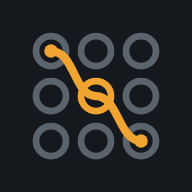
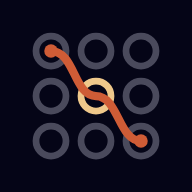
Thème aux couleurs de la palette d'Eddy (ink black, paprika, apricot, vanilla, alabaster), clair et sombre, icône assortie
Claude-Session: https://claude.ai/code/session_01PqsB6tubNNyDzqUiKZuta6

Changed region(s): [[0.1562, 0.1562, 0.8438, 0.8438], [0.625, 0.1562, 0.8438, 0.375], [0.1562, 0.625, 0.375, 0.8438]]

diff --git a/index.html b/index.html
@@ -4,7 +4,7 @@
 <meta charset="utf-8">
 <meta name="viewport" content="width=device-width,initial-scale=1,viewport-fit=cover">
 <link rel="manifest" href="manifest.webmanifest">
-<meta name="theme-color" content="#a85d00">
+<meta name="theme-color" content="#050517">
 <link rel="icon" href="icon-192.png">
 <link rel="apple-touch-icon" href="icon-192.png">
 <meta name="apple-mobile-web-app-capable" content="yes">
@@ -19,34 +19,37 @@
 <style>
 /* Layout : barre de dossier en haut, onglets, puis une vue de travail pleine largeur (tableau dense, grilles de boîtiers) */
 :root {
-  --bg: #eceef1;
+  /* Palette : ink black #050517, spicy paprika #cf5c36, apricot cream #efc88b, vanilla custard #f4e3b2, alabaster grey #d3d5d7 */
+  --bg: #e9eaeb;
   --surface: #ffffff;
-  --surface-2: #f5f6f8;
-  --ink: #15181c;
-  --muted: #5b636d;
-  --line: #d3d8de;
-  --accent: #a85d00;
-  --accent-ink: #ffffff;
-  --accent-soft: #fbe9cf;
-  --danger: #b42318;
-  --danger-soft: #fde8e6;
+  --surface-2: #faf5e8;
+  --ink: #050517;
+  --muted: #4a4a5c;
+  --line: #d3d5d7;
+  --accent: #cf5c36;
+  --accent-ink: #050517;
+  --accent-soft: #f4e3b2;
+  --apricot: #efc88b;
+  --danger: #a3201a;
+  --danger-soft: #fbe2df;
   --ok: #1f7a4a;
   --font-ui: "IBM Plex Sans Condensed", "Arial Narrow", "Helvetica Neue", Arial, sans-serif;
   --font-mono: "IBM Plex Mono", ui-monospace, "SF Mono", Menlo, Consolas, monospace;
 }
 @media (prefers-color-scheme: dark) {
   :root:not([data-theme="light"]) {
-    --bg: #111316; --surface: #1a1d22; --surface-2: #22262c; --ink: #e8eaed; --muted: #9aa3ad;
-    --line: #333941; --accent: #f0a432; --accent-ink: #1a1206; --accent-soft: #3a2a12;
+    --bg: #050517; --surface: #0e0e24; --surface-2: #16162f; --ink: #f1ede2; --muted: #a3a3b5;
+    --line: #2a2a45; --accent: #e3764f; --accent-ink: #050517; --accent-soft: #3a1d14; --apricot: #efc88b;
     --danger: #ff8a80; --danger-soft: #3b1d1b; --ok: #6fd39b; color-scheme: dark;
   }
 }
 :root[data-theme="dark"] {
-  --bg: #111316; --surface: #1a1d22; --surface-2: #22262c; --ink: #e8eaed; --muted: #9aa3ad;
-  --line: #333941; --accent: #f0a432; --accent-ink: #1a1206; --accent-soft: #3a2a12;
+  --bg: #050517; --surface: #0e0e24; --surface-2: #16162f; --ink: #f1ede2; --muted: #a3a3b5;
+  --line: #2a2a45; --accent: #e3764f; --accent-ink: #050517; --accent-soft: #3a1d14; --apricot: #efc88b;
   --danger: #ff8a80; --danger-soft: #3b1d1b; --ok: #6fd39b; color-scheme: dark;
 }
 * { box-sizing: border-box; }
+input[type="checkbox"], input[type="radio"], input[type="range"], progress { accent-color: var(--accent); }
 [hidden] { display: none !important; }
 body {
   background: var(--bg); color: var(--ink); font-family: var(--font-ui); font-size: 15px; line-height: 1.4;
@@ -271,7 +274,7 @@ table.rack tr.hit td { background: var(--accent-soft); }
 .zoom { display: inline-flex; align-items: center; gap: 4px; }
 .zoom .mono { font-size: 13px; min-width: 46px; text-align: center; }
 #planSvg .it { cursor: grab; }
-#planSvg .it.on > .shape { stroke: #b45309; stroke-width: 0.06; }
+#planSvg .it.on > .shape { stroke: #cf5c36; stroke-width: 0.06; }
 .plan-side h3 { margin: 0 0 8px; font-size: 16px; }
 .plan-side label { display: flex; flex-direction: column; gap: 2px; font-size: 12px; color: var(--muted); margin-bottom: 8px; }
 .plan-side input, .plan-side select { width: 100%; }
@@ -345,7 +348,7 @@ nav.tabs.nomaster button[data-v="racks"] { order: -1; }
 .spxrf .det { color: var(--muted); }
 .gauge { display: block; height: 10px; border-radius: 5px; background: var(--surface-2); border: 1px solid var(--line); overflow: hidden; }
 .gauge span { display: block; height: 100%; background: var(--accent); }
-.gauge.warn span { background: #c98a00; }
+.gauge.warn span { background: #d9a248; }
 .gauge.over span { background: var(--danger, #b3261e); }
 @media (max-width: 760px) { .spxrf { grid-template-columns: 40px 1fr 64px; } .spxrf .det { grid-column: 2 / -1; } }
 .spxmode { display: flex; gap: 8px; align-items: center; flex-wrap: wrap; }
@@ -2601,7 +2604,7 @@ footer.foot { margin-top: 28px; color: var(--muted); font-size: 13px; max-width:
     const K = PLAN_KINDS[it.kind], w = it.w, h = it.h;
     if (K.round) return `<ellipse class="shape" cx="${w / 2}" cy="${h / 2}" rx="${w / 2}" ry="${h / 2}" fill="${K.fill}" stroke="${K.stroke}" stroke-width="0.03"/>`;
     if (K.wedge) return `<polygon class="shape" points="0,${h} ${w},${h} ${w * 0.85},0 ${w * 0.15},0" fill="${K.fill}" stroke="${K.stroke}" stroke-width="0.03"/>`;
-    if (it.kind === "texte") return `<rect class="shape" width="${w}" height="${h}" fill="transparent" stroke="${planSel === it.id ? "#b45309" : "none"}" stroke-width="0.03" stroke-dasharray="0.08"/>`;
+    if (it.kind === "texte") return `<rect class="shape" width="${w}" height="${h}" fill="transparent" stroke="${planSel === it.id ? "#cf5c36" : "none"}" stroke-width="0.03" stroke-dasharray="0.08"/>`;
     return `<rect class="shape" width="${w}" height="${h}" rx="0.04" fill="${K.fill}" stroke="${K.stroke}" stroke-width="0.03"/>`;
   }
   function planSvgMarkup(forExport, pxW) {

diff --git a/src/patch-live.html b/src/patch-live.html
@@ -6,34 +6,37 @@
 <style>
 /* Layout : barre de dossier en haut, onglets, puis une vue de travail pleine largeur (tableau dense, grilles de boîtiers) */
 :root {
-  --bg: #eceef1;
+  /* Palette : ink black #050517, spicy paprika #cf5c36, apricot cream #efc88b, vanilla custard #f4e3b2, alabaster grey #d3d5d7 */
+  --bg: #e9eaeb;
   --surface: #ffffff;
-  --surface-2: #f5f6f8;
-  --ink: #15181c;
-  --muted: #5b636d;
-  --line: #d3d8de;
-  --accent: #a85d00;
-  --accent-ink: #ffffff;
-  --accent-soft: #fbe9cf;
-  --danger: #b42318;
-  --danger-soft: #fde8e6;
+  --surface-2: #faf5e8;
+  --ink: #050517;
+  --muted: #4a4a5c;
+  --line: #d3d5d7;
+  --accent: #cf5c36;
+  --accent-ink: #050517;
+  --accent-soft: #f4e3b2;
+  --apricot: #efc88b;
+  --danger: #a3201a;
+  --danger-soft: #fbe2df;
   --ok: #1f7a4a;
   --font-ui: "IBM Plex Sans Condensed", "Arial Narrow", "Helvetica Neue", Arial, sans-serif;
   --font-mono: "IBM Plex Mono", ui-monospace, "SF Mono", Menlo, Consolas, monospace;
 }
 @media (prefers-color-scheme: dark) {
   :root:not([data-theme="light"]) {
-    --bg: #111316; --surface: #1a1d22; --surface-2: #22262c; --ink: #e8eaed; --muted: #9aa3ad;
-    --line: #333941; --accent: #f0a432; --accent-ink: #1a1206; --accent-soft: #3a2a12;
+    --bg: #050517; --surface: #0e0e24; --surface-2: #16162f; --ink: #f1ede2; --muted: #a3a3b5;
+    --line: #2a2a45; --accent: #e3764f; --accent-ink: #050517; --accent-soft: #3a1d14; --apricot: #efc88b;
     --danger: #ff8a80; --danger-soft: #3b1d1b; --ok: #6fd39b; color-scheme: dark;
   }
 }
 :root[data-theme="dark"] {
-  --bg: #111316; --surface: #1a1d22; --surface-2: #22262c; --ink: #e8eaed; --muted: #9aa3ad;
-  --line: #333941; --accent: #f0a432; --accent-ink: #1a1206; --accent-soft: #3a2a12;
+  --bg: #050517; --surface: #0e0e24; --surface-2: #16162f; --ink: #f1ede2; --muted: #a3a3b5;
+  --line: #2a2a45; --accent: #e3764f; --accent-ink: #050517; --accent-soft: #3a1d14; --apricot: #efc88b;
   --danger: #ff8a80; --danger-soft: #3b1d1b; --ok: #6fd39b; color-scheme: dark;
 }
 * { box-sizing: border-box; }
+input[type="checkbox"], input[type="radio"], input[type="range"], progress { accent-color: var(--accent); }
 [hidden] { display: none !important; }
 body {
   background: var(--bg); color: var(--ink); font-family: var(--font-ui); font-size: 15px; line-height: 1.4;
@@ -258,7 +261,7 @@ table.rack tr.hit td { background: var(--accent-soft); }
 .zoom { display: inline-flex; align-items: center; gap: 4px; }
 .zoom .mono { font-size: 13px; min-width: 46px; text-align: center; }
 #planSvg .it { cursor: grab; }
-#planSvg .it.on > .shape { stroke: #b45309; stroke-width: 0.06; }
+#planSvg .it.on > .shape { stroke: #cf5c36; stroke-width: 0.06; }
 .plan-side h3 { margin: 0 0 8px; font-size: 16px; }
 .plan-side label { display: flex; flex-direction: column; gap: 2px; font-size: 12px; color: var(--muted); margin-bottom: 8px; }
 .plan-side input, .plan-side select { width: 100%; }
@@ -332,7 +335,7 @@ nav.tabs.nomaster button[data-v="racks"] { order: -1; }
 .spxrf .det { color: var(--muted); }
 .gauge { display: block; height: 10px; border-radius: 5px; background: var(--surface-2); border: 1px solid var(--line); overflow: hidden; }
 .gauge span { display: block; height: 100%; background: var(--accent); }
-.gauge.warn span { background: #c98a00; }
+.gauge.warn span { background: #d9a248; }
 .gauge.over span { background: var(--danger, #b3261e); }
 @media (max-width: 760px) { .spxrf { grid-template-columns: 40px 1fr 64px; } .spxrf .det { grid-column: 2 / -1; } }
 .spxmode { display: flex; gap: 8px; align-items: center; flex-wrap: wrap; }
@@ -2588,7 +2591,7 @@ footer.foot { margin-top: 28px; color: var(--muted); font-size: 13px; max-width:
     const K = PLAN_KINDS[it.kind], w = it.w, h = it.h;
     if (K.round) return `<ellipse class="shape" cx="${w / 2}" cy="${h / 2}" rx="${w / 2}" ry="${h / 2}" fill="${K.fill}" stroke="${K.stroke}" stroke-width="0.03"/>`;
     if (K.wedge) return `<polygon class="shape" points="0,${h} ${w},${h} ${w * 0.85},0 ${w * 0.15},0" fill="${K.fill}" stroke="${K.stroke}" stroke-width="0.03"/>`;
-    if (it.kind === "texte") return `<rect class="shape" width="${w}" height="${h}" fill="transparent" stroke="${planSel === it.id ? "#b45309" : "none"}" stroke-width="0.03" stroke-dasharray="0.08"/>`;
+    if (it.kind === "texte") return `<rect class="shape" width="${w}" height="${h}" fill="transparent" stroke="${planSel === it.id ? "#cf5c36" : "none"}" stroke-width="0.03" stroke-dasharray="0.08"/>`;
     return `<rect class="shape" width="${w}" height="${h}" rx="0.04" fill="${K.fill}" stroke="${K.stroke}" stroke-width="0.03"/>`;
   }
   function planSvgMarkup(forExport, pxW) {

diff --git a/sw.js b/sw.js
@@ -1,6 +1,6 @@
 // Patch Live : fonctionne hors ligne. La page est toujours prise sur le réseau quand il y en a (mises à jour immédiates),
 // sinon dans le cache ; les bibliothèques et polices sont gardées en cache.
-const CACHE = "patch-live-8902214acb";
+const CACHE = "patch-live-fc96538760";
 const SHELL = ["./", "./index.html", "./manifest.webmanifest", "./icon-192.png", "./icon-512.png", "https://cdnjs.cloudflare.com/ajax/libs/exceljs/4.4.0/exceljs.min.js"];
 self.addEventListener("install", (e) => { e.waitUntil(caches.open(CACHE).then((c) => c.addAll(SHELL)).then(() => self.skipWaiting())); });
 self.addEventListener("activate", (e) => { e.waitUntil(caches.keys().then((ks) => Promise.all(ks.filter((k) => k !== CACHE).map((k) => caches.delete(k)))).then(() => self.clients.claim())); });
